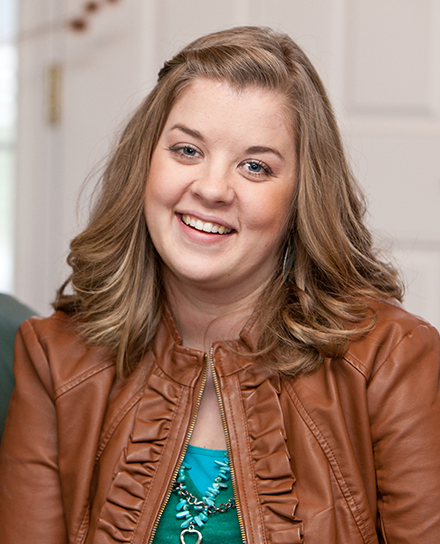
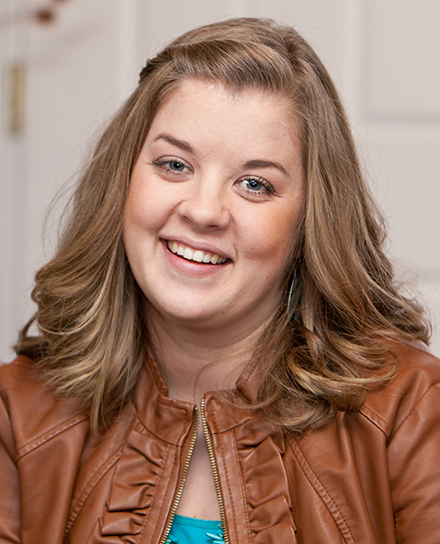
add Chrissy Toledo

diff --git a/library/css/theme.css b/library/css/theme.css
@@ -171,19 +171,19 @@ p.lead {
   padding: 15px;
   margin: 1em 0 3em;
   color: #000;
-  background: #9CD1E6;
-  background: rgba(156, 209, 230, 0.4);
+  /* background: #9CD1E6;
+  background: rgba(156, 209, 230, .4); */
+  background-color: #eee;
   border-radius: 10px;
   border-left: none;
   /* background: linear-gradient(top, #f9d835, #f3961c); */
 }
 .oval-quotes p {
   /* height: 250px; */
-  padding: 0 15px;
+  padding: 0 20px;
   margin: 0 auto;
   text-align: center;
-  font-size: 20px;
-  font-style: italic;
+  font-size: 1.2rem;
 }
 .oval-quotes p:after {
   content: "";
@@ -195,20 +195,23 @@ p.lead {
   width: 0;
   border-width: 15px 15px 0;
   border-style: solid;
-  border-color: #9CD1E6 transparent;
-  border-color: rgba(156, 209, 230, 0.4) transparent;
+  /* border-color: #9CD1E6 transparent;
+      border-color: rgba(156, 209, 230, .4) transparent; */
+  border-color: #eee transparent;
 }
 .oval-quotes-cite {
   display: block;
-  padding-left: 50px;
+  padding-left: 60px;
   padding-top: 10px;
-  font-size: 13px;
+  font-size: .9rem;
   line-height: 1rem;
+  font-family: "Adobe Caslon Pro", Baskerville, "Baskerville Old Face", "Hoefler Text", Garamond, "Times New Roman", Times, serif;
 }
 .oval-quotes-cite strong {
-  font-size: 1rem;
+  font-size: 1.1rem;
   display: block;
-  margin-bottom: .3rem;
+  margin-bottom: .5rem;
+  font-family: "futura-pt";
 }
 .more {
   margin-top: 60px;
@@ -280,15 +283,33 @@ address h4 {
   box-sizing: border-box;
 }
 .pagename-leaders .paper .well {
-  -webkit-box-shadow: none;
-  -moz-box-shadow: none;
-  box-shadow: none;
-  background-color: #F5F0F4;
-  background-color: rgba(144, 67, 154, 0.06);
+  /* .box-shadow(none);
+      background-color: #F5F0F4;
+      background-color: rgba(144, 67, 154, 0.06); */
+  /* .box-shadow(0 0 18px rgba(0,0,0,.18)); */
   margin: 50px 0 0;
 }
 .pagename-leaders .paper .well h3 {
   margin-top: 0 !important;
+  background-color: #f7f7f7;
+  padding: 8px 40px;
+  margin-left: -40px !important;
+  margin-right: -40px !important;
+  margin-top: -40px !important;
+  position: relative;
+  -webkit-box-shadow: inset 0 1px 0 rgba(255, 255, 255, 0.8);
+  -moz-box-shadow: inset 0 1px 0 rgba(255, 255, 255, 0.8);
+  box-shadow: inset 0 1px 0 rgba(255, 255, 255, 0.8);
+  border-bottom: 1px solid #EBEBEB;
+}
+.pagename-leaders .paper .btn-cta {
+  margin: 2rem 0 3rem;
+}
+.pagename-leaders .paper .oval-quotes {
+  margin-left: 30px !important;
+}
+.pagename-leaders .btn-register-global {
+  display: none;
 }
 .wpcf7-form {
   max-width: 600px;
@@ -1056,7 +1077,7 @@ article header .banner p {
 #main article.page section.post_content h4,
 #main article.page section.post_content h5,
 #main article.page section.post_content h6 {
-  margin: 50px 0 .5em;
+  margin: .5em 0 .5em;
 }
 #main article.page section.post_content h2 {
   font-size: 36px;

diff --git a/library/less/theme.less b/library/less/theme.less
@@ -146,18 +146,19 @@ p.lead {
   padding: 15px;
   margin: 1em 0 3em;
   color: #000;
-  background: #9CD1E6;
-  background: rgba(156, 209, 230, .4);
+  /* background: #9CD1E6;
+  background: rgba(156, 209, 230, .4); */
+  background-color: #eee;
   border-radius: 10px;
   border-left: none;
   /* background: linear-gradient(top, #f9d835, #f3961c); */
   p {
     /* height: 250px; */
-    padding: 0 15px;
+    padding: 0 20px;
     margin: 0 auto;
     text-align: center;
-    font-size:20px;
-    font-style: italic;
+    font-size: 1.2rem;
+
     &:after {
       content: "";
       display: block; /* reduce the damage in FF3.0 */
@@ -167,21 +168,24 @@ p.lead {
       width: 0;
       border-width: 15px 15px 0;
       border-style: solid;
-      border-color: #9CD1E6 transparent;
-      border-color: rgba(156, 209, 230, .4) transparent;
+      /* border-color: #9CD1E6 transparent;
+      border-color: rgba(156, 209, 230, .4) transparent; */
+      border-color: #eee transparent;
     }
   }
 }
 .oval-quotes-cite {
   display: block;
-  padding-left: 50px;
+  padding-left: 60px;
   padding-top: 10px;
-  font-size: 13px;
+  font-size: .9rem;
   line-height: 1rem;
+  font-family: @altFontFamily;
   strong {
-    font-size: 1rem;
+    font-size: 1.1rem;
     display: block;
-    margin-bottom: .3rem;
+    margin-bottom: .5rem;
+    font-family: @baseFontFamily;
   }
 }
 
@@ -246,16 +250,34 @@ address {
 .pagename-leaders {
   .paper {
     .well {
-      .box-shadow(none);
+      /* .box-shadow(none);
       background-color: #F5F0F4;
-      background-color: rgba(144, 67, 154, 0.06);
+      background-color: rgba(144, 67, 154, 0.06); */
+      /* .box-shadow(0 0 18px rgba(0,0,0,.18)); */
       margin: 50px 0 0;
+
       h3 {
         margin-top: 0 !important;
+        background-color: #f7f7f7;
+        padding: 8px 40px;
+        margin-left: -40px !important;
+        margin-right: -40px !important;
+        margin-top: -40px !important;
+        position: relative;
+        .box-shadow(inset 0 1px 0 rgba(255,255,255,.8));
+        border-bottom: 1px solid #EBEBEB;
       }
     }
+    .btn-cta {
+      margin: 2rem 0 3rem;
+    }
+    .oval-quotes {
+      margin-left: 30px !important;
+    }
   }
-
+  .btn-register-global {
+    display: none;
+  }
 }
 
 .wpcf7-form {
@@ -906,7 +928,7 @@ article header {
     }
     section.post_content {
       h1, h2, h3, h4, h5, h6 {
-        margin: 50px 0 .5em;
+        margin: .5em 0 .5em;
       }
 
       h2 {

diff --git a/page-speakers.php b/page-speakers.php
@@ -44,6 +44,7 @@ Template Name: Speakers
                     <li><a href="#gettys">Keith &amp; Kristyn Getty</a></li>
                     <li><a href="#blair">Blair Linne</a></li>
                     <li><a href="#chicago-tabernacle">Chicago Tabernacle Choir</a></li>
+                    <li><a href="#chrissy">Chrissy Toledo</a></li>
                     <li><a href="#stephanie">Stephanie Martinez</a></li>
                   </ul>
                 </div><!-- end span3 -->
